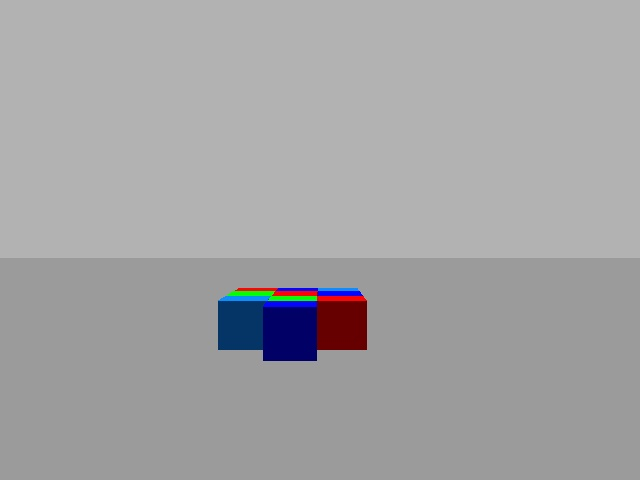
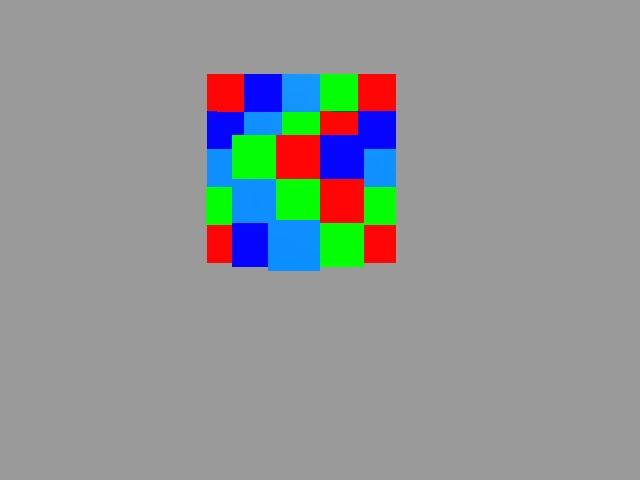
adding a more interesting initial block structure and its corresponding images

Changed region(s): [[0.2812, 0.125, 0.625, 0.7812]]

diff --git a/src/world_simulation/src/add_block.py b/src/world_simulation/src/add_block.py
@@ -29,7 +29,10 @@ def main():
     world_sim = WorldSimulation()
 
     x, y = 2, 0
-    world_sim.add_square_2d(x, y, 3)
+    side_lengths = [5, 3, 1]  # must be in descending order
+    for i, side_length in enumerate(side_lengths):
+        world_sim.add_square_2d(x, y, side_length, i * world_sim.block_size[2])
+
     world_sim.add_camera((x, y, 1), (0, np.pi / 2, 0), "camera0")  # top down camera
     world_sim.add_camera((x - 1, y, 0), (0, 0, 0), "camera1")  # side view camera
 
